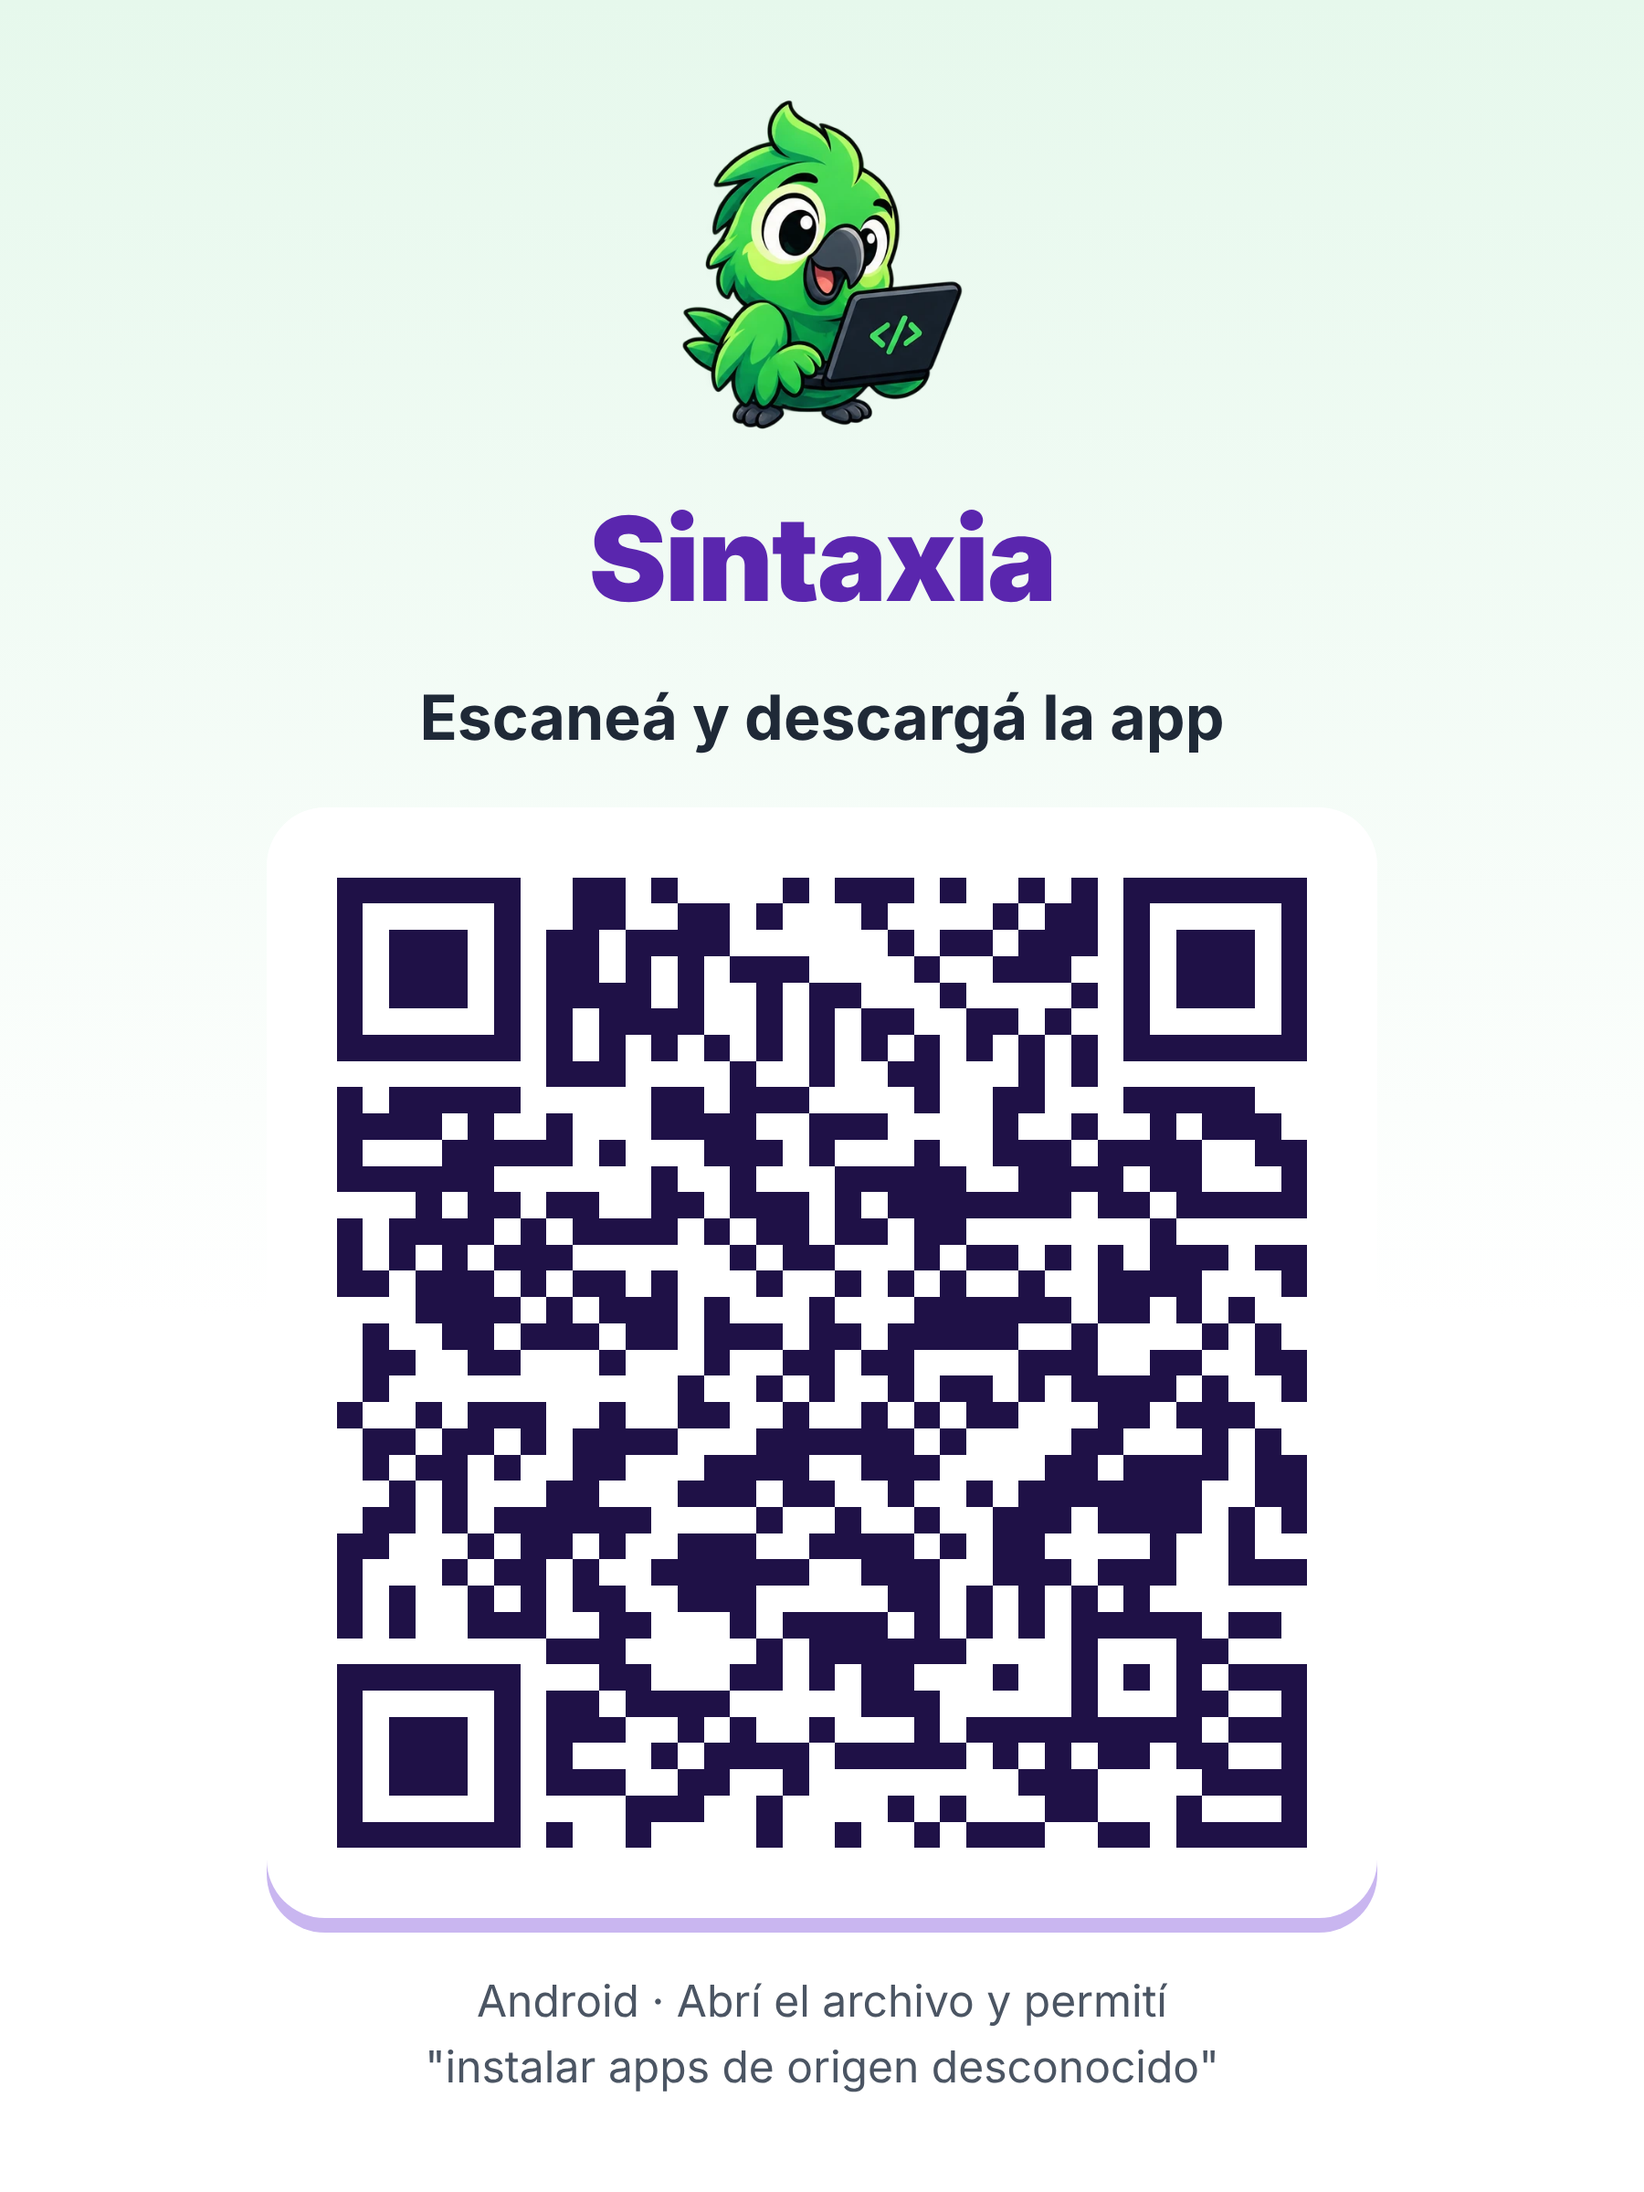
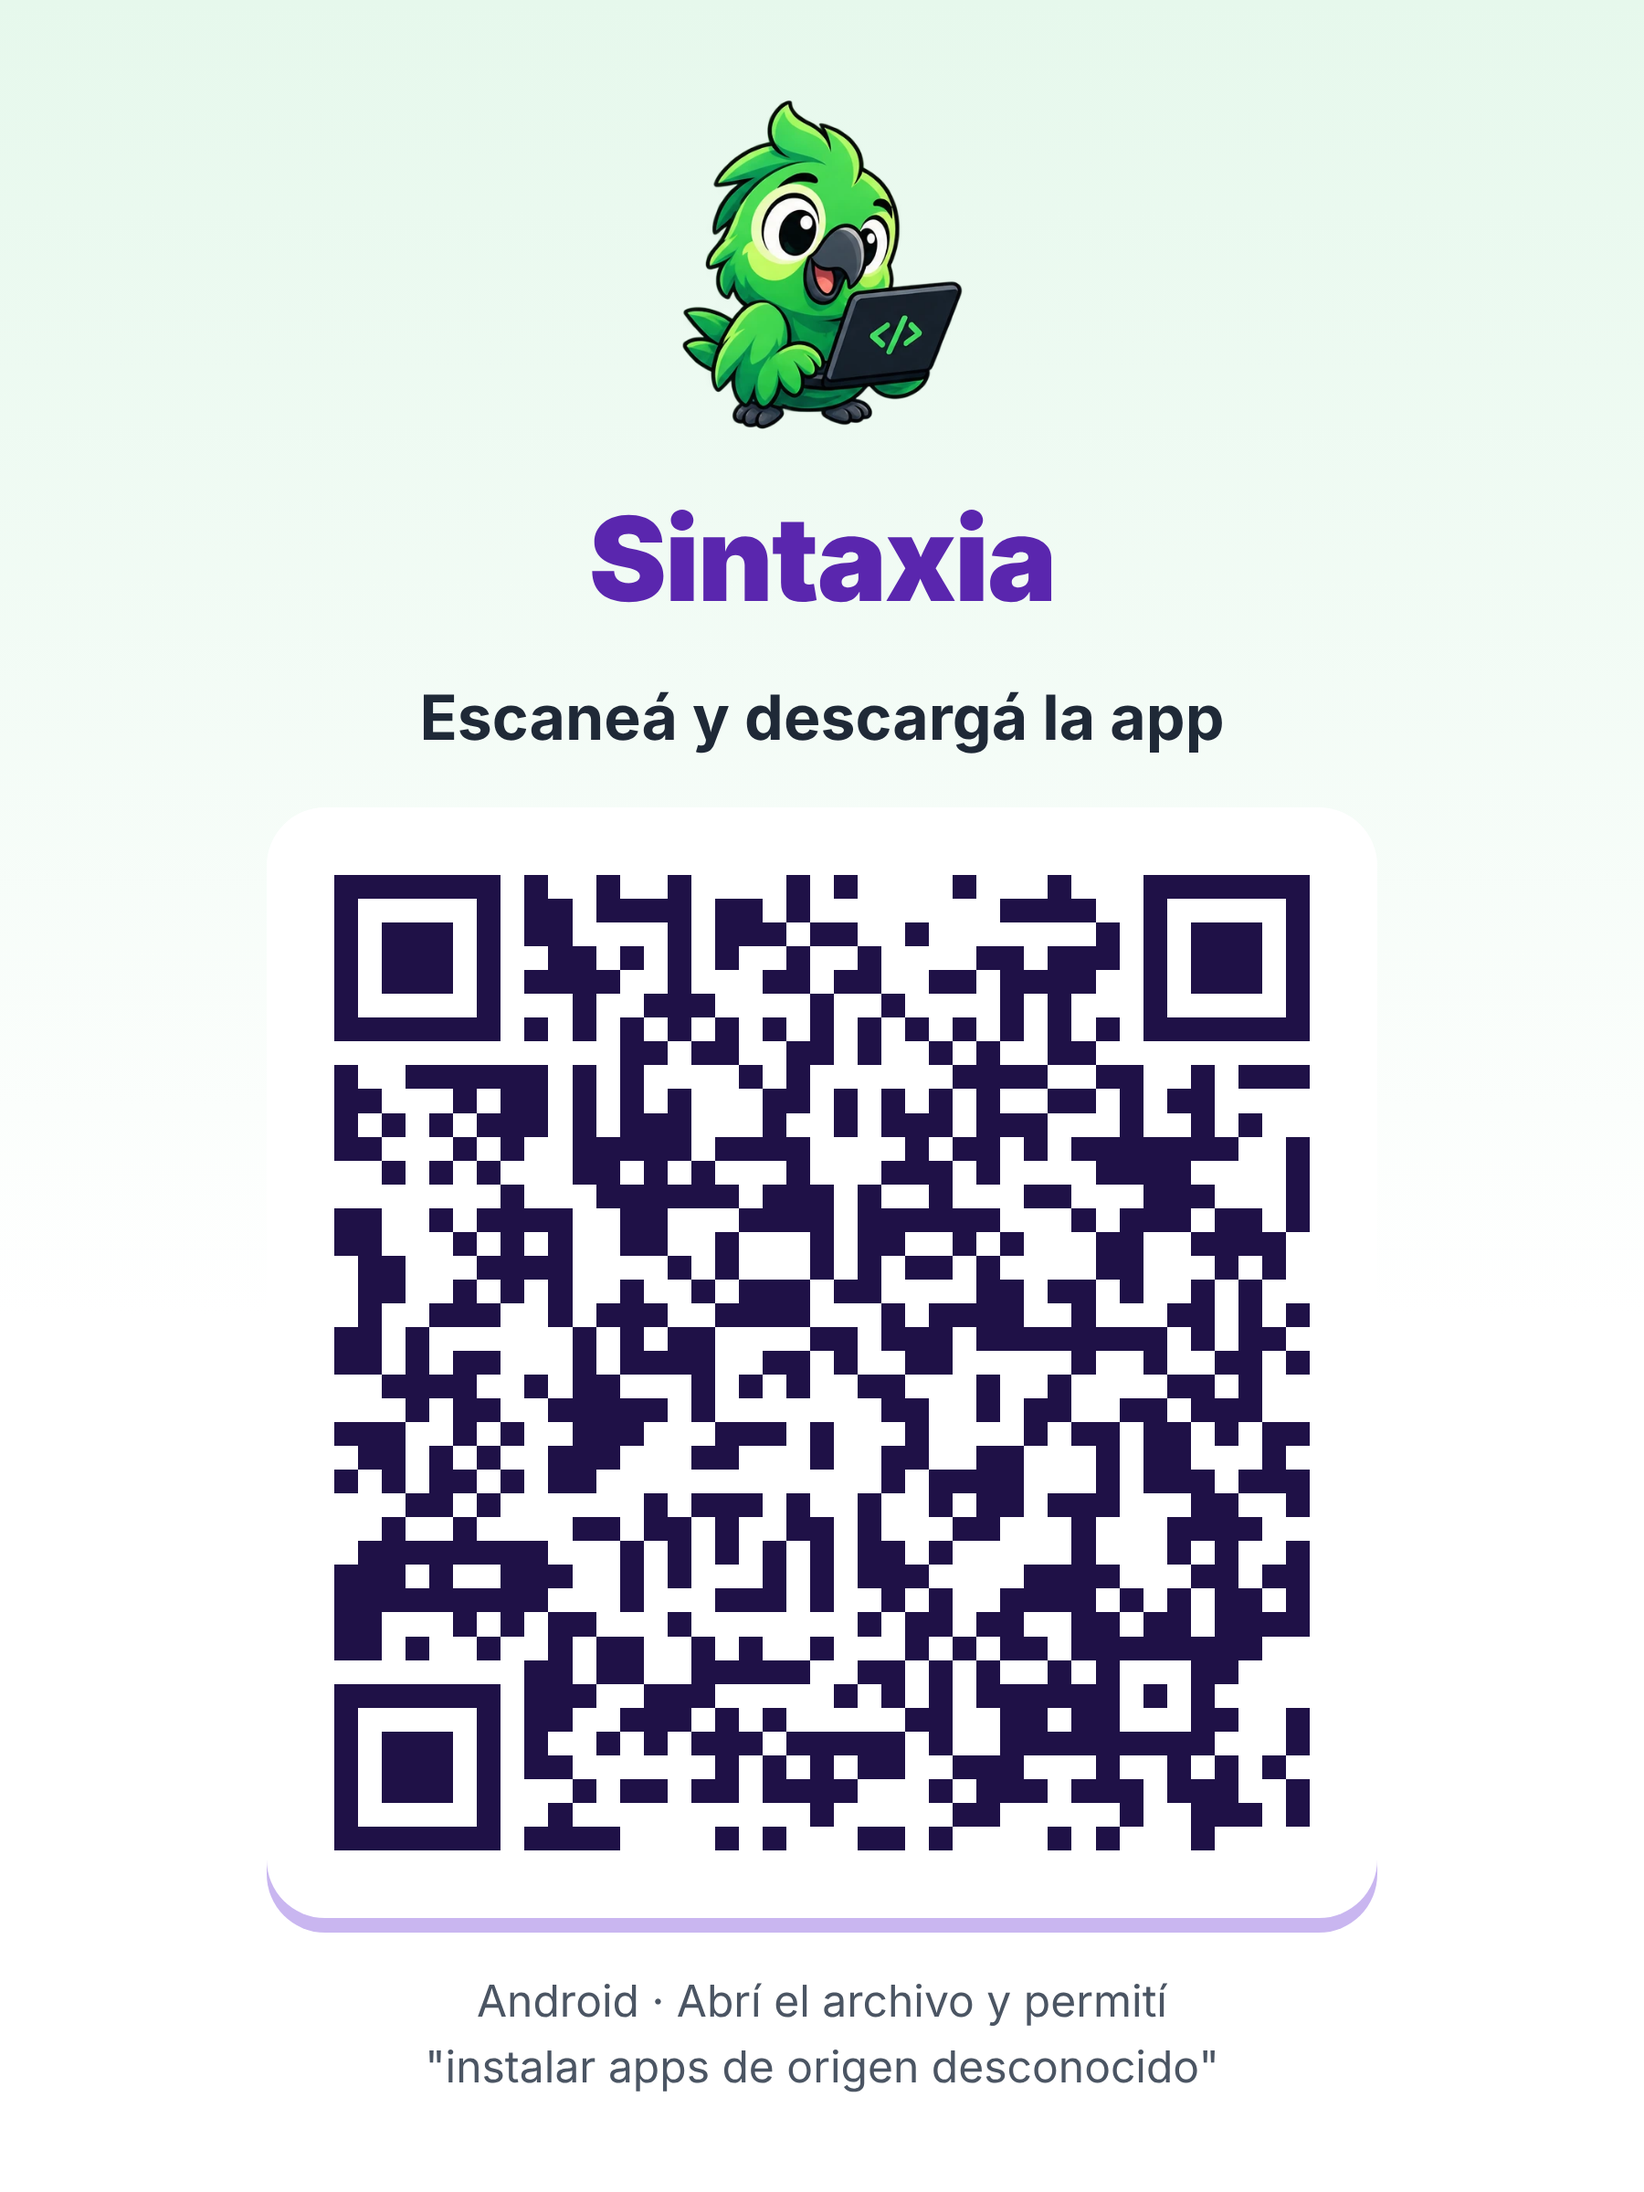
QR con el enlace directo de descarga del APK

Changed region(s): [[0.1867, 0.375, 0.8089, 0.8438]]

diff --git a/descargas/LEEME.md b/descargas/LEEME.md
@@ -2,7 +2,7 @@
 
 Escaneá el QR (`qr-sintaxia.png`) o abrí este enlace desde el celular:
 
-https://github.com/LeandroPereyra-arg/Sintaxia/raw/main/descargas/Sintaxia.apk
+https://raw.githubusercontent.com/LeandroPereyra-arg/Sintaxia/main/descargas/Sintaxia.apk
 
 1. Se descarga `Sintaxia.apk`. Abrilo.
 2. Si Android pregunta, permití **"Instalar apps de origen desconocido"** para el navegador.
